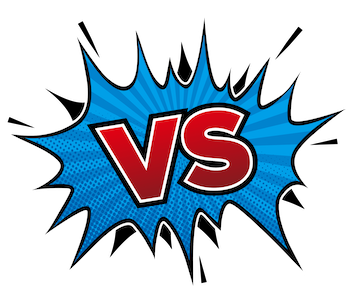
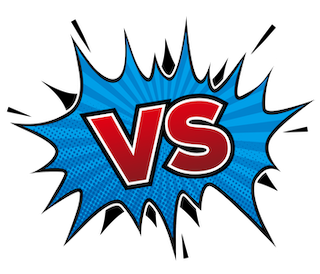
Last update

diff --git a/index.html b/index.html
@@ -118,7 +118,7 @@
             Collecting rings as a form of health<br>
             Jumping and attacking controlled by a single button<br>
           </p>
-          <video controls loop preload="none" poster="images/sonicdance.gif" width="320px" height="197px">
+          <video controls loop preload="none" poster="images/videocover.png" width="320px" height="180px">
             <source src="images/sonicanimation.mp4" type="video/mp4">
             <source src="images/sonicanimation.mp4" type="video/ogg">
             Your browser does not support the video tag.
@@ -139,7 +139,7 @@
       </div>
 
       <div class="versus">
-        <img src="images/vs.png" class="Versus" alt="versus" width="351px" height="300px">
+        <img src="images/vs.png" class="Versus" alt="versus" width="320px" height="274px">
       </div>
 
       <div class="eggman">
